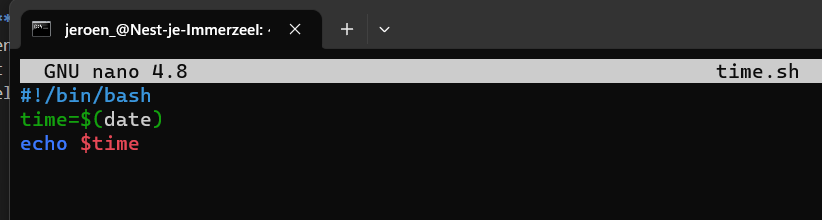
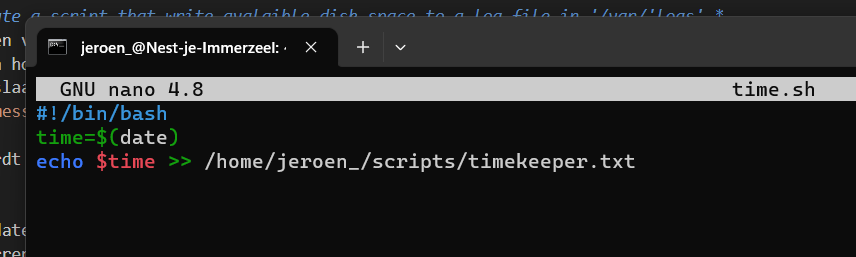
Fixed scripts
added images

diff --git a/01_Linux_1/Linux_Opdrachten_deel_3.md b/01_Linux_1/Linux_Opdrachten_deel_3.md
@@ -54,9 +54,10 @@ In deze is de regel die er toevoegd moet worden dus:
 *crontab entry voor het date commando*
 
 ![Het script](/00_includes/time_sh.png)
+*Het script voor de tijdsmeldin*
 
-![De tijds melding]
-
+![De tijds melding](/00_includes/time_log.png)
+*De tijdsmelding zelf*
 
 ### *"3: Create a script that writes available disk space to a log file in ‘/var/logs’. Use a cron job so that it runs weekly."* 
 
@@ -72,8 +73,10 @@ logger The current disk usage is: $disk_usage
 ```
 
 ![Het script](/00_includes/df_sh.png)
+*het df script*  
 
 ![De output van het df script](/00_includes/disksize.png)
+*de diskusage*
 
 #### *2: "Use a cron job so that it runs weekly."*
 
@@ -83,9 +86,9 @@ Om het aangemaakt script elke week te draaien is het nodig om met **crontab -e**
 Hiermee zal cron op de maandag het **df.sh** script draaien.
 
 
-![crontab entry](/00_includes/crontab_time.png)
+![crontab entry](/00_includes/crontab_time.png)  
 *crontab entry*  
 
 
-![de output](/00_includes/df_sh.png)
+![de output](/00_includes/df_sh.png)  
 *het df script*
